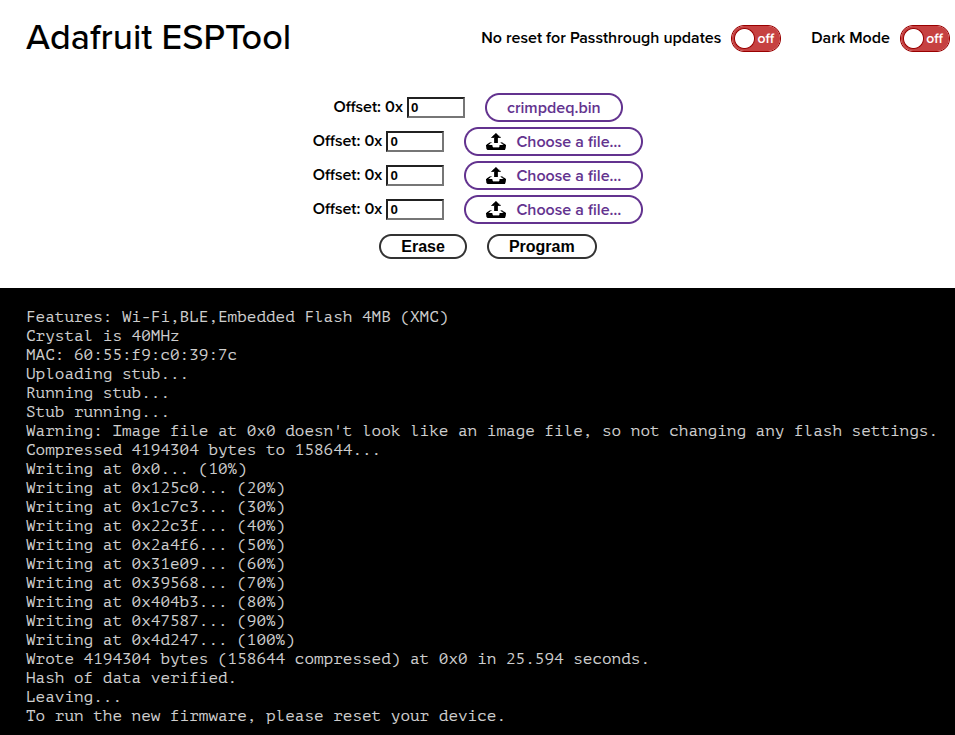
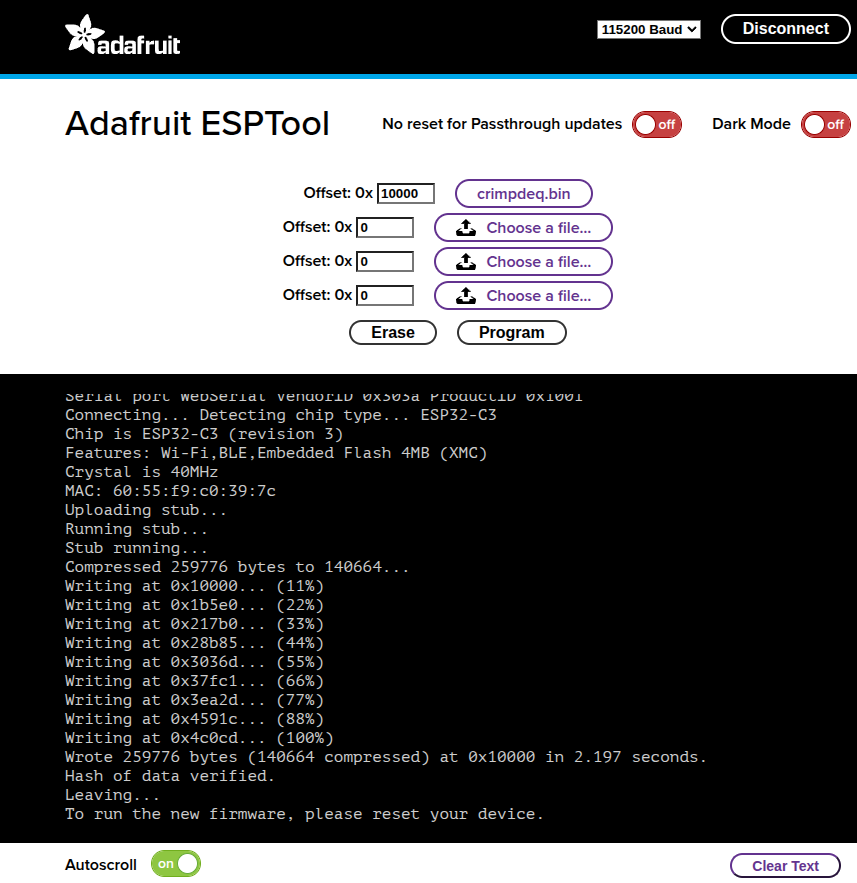
docs: Update flashing step

Changed region(s): [[0.0, 0.1197, 1.0, 1.0], [0.0, 0.0, 1.0, 0.0898]]

diff --git a/book/src/firmware.md b/book/src/firmware.md
@@ -38,7 +38,7 @@ To flash the released binary using your browser:
 1. Download the binary from the desired GitHub release
 2. Open [Adafruit ESPTool](https://adafruit.github.io/Adafruit_WebSerial_ESPTool/)
 3. Click Connect and select the serial port of your ESP board (should be named `USB/JTAG serial debug unit...`)
-4. Upload your .bin file(s) at offset `0x0`
+4. Upload your .bin file(s) at offset 0x`10000`
 5. Click Program
   ![Flashing with ESPTool](./assets/esptool.png)
 
